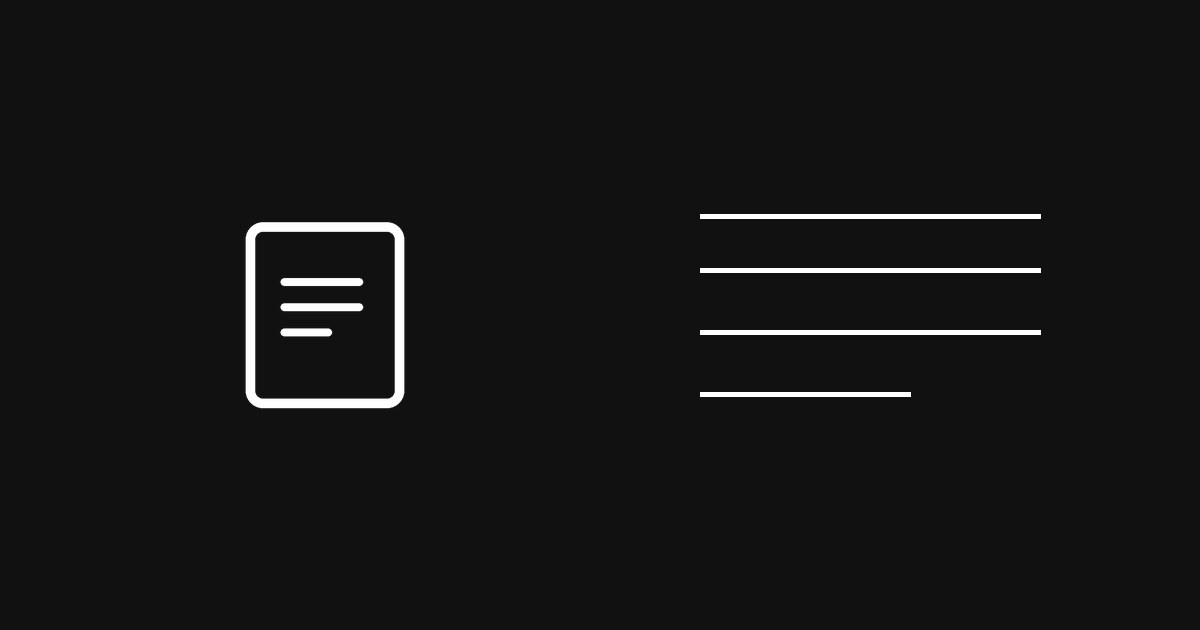
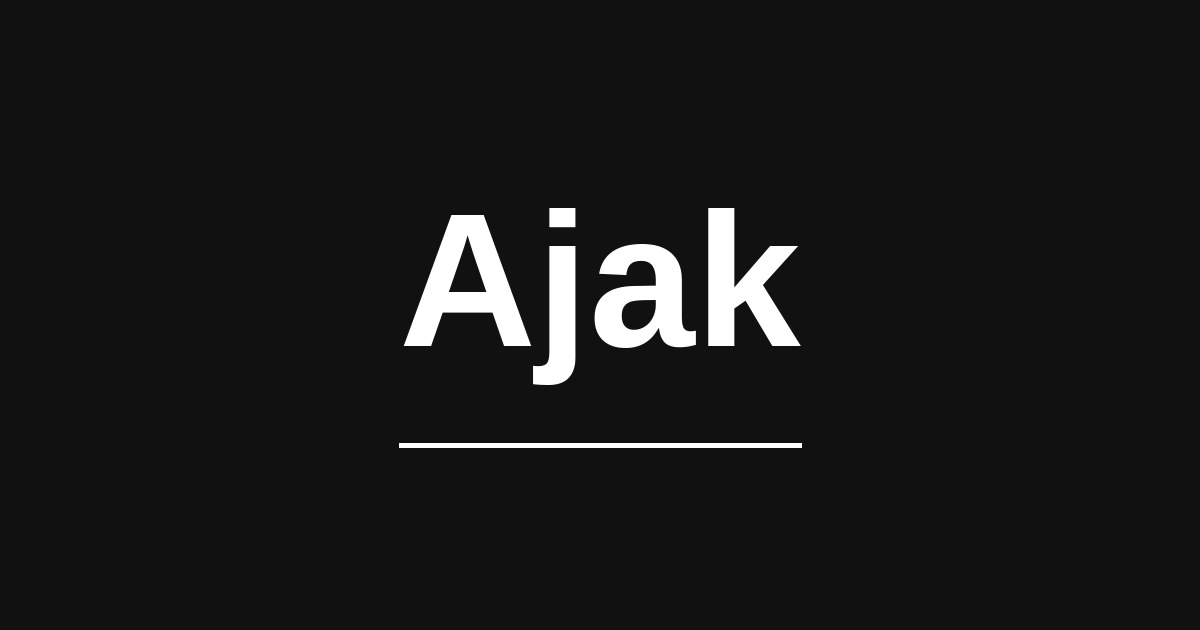
앱 이름·브랜드를 Ajak으로 변경: 워드마크 헤더, A 모노그램 아이콘, 매니페스트/타이틀/공유 문구, 워커 캐시 diary-v2

Changed region(s): [[0.185, 0.3317, 0.8633, 0.6635], [0.3392, 0.6937, 0.6783, 0.7238], [0.5858, 0.6032, 0.7708, 0.6333]]

diff --git a/index.html b/index.html
@@ -2,7 +2,7 @@
 <html lang="ko">
 <head>
 <meta charset="utf-8">
-<title>다이어리</title>
+<title>Ajak</title>
 <meta name="viewport" content="width=device-width, initial-scale=1, viewport-fit=cover">
 <meta name="description" content="일상과 생각을 가볍게 나누는 공간. 짧은 글과 사진으로 오늘을 기록하고, 서로의 하루에 답글을 남겨 보세요.">
 <meta name="theme-color" content="#FFFFFF">
@@ -16,34 +16,29 @@
 
 <meta name="apple-mobile-web-app-capable" content="yes">
 <meta name="mobile-web-app-capable" content="yes">
-<meta name="apple-mobile-web-app-title" content="다이어리">
+<meta name="apple-mobile-web-app-title" content="Ajak">
 <meta name="apple-mobile-web-app-status-bar-style" content="default">
 
 <meta property="og:type" content="website">
-<meta property="og:site_name" content="다이어리">
-<meta property="og:title" content="다이어리">
+<meta property="og:site_name" content="Ajak">
+<meta property="og:title" content="Ajak">
 <meta property="og:description" content="일상과 생각을 가볍게 나누는 공간. 짧은 글과 사진으로 오늘을 기록하고, 서로의 하루에 답글을 남겨 보세요.">
 <meta property="og:image" content="https://ajak-75.github.io/diary/icons/og-cover.jpg">
 <meta property="og:url" content="https://ajak-75.github.io/diary/">
 <meta name="twitter:card" content="summary_large_image">
-<meta name="twitter:title" content="다이어리">
+<meta name="twitter:title" content="Ajak">
 <meta name="twitter:description" content="일상과 생각을 가볍게 나누는 공간.">
 <meta name="twitter:image" content="https://ajak-75.github.io/diary/icons/og-cover.jpg">
 
-<link rel="stylesheet" href="./styles.css?v=3">
+<link rel="stylesheet" href="./styles.css?v=4">
 </head>
 <body>
 <div class="app" id="app">
 
   <header class="topbar" id="topbar">
-    <a class="brand" href="./" aria-label="다이어리 홈">
-      <svg class="brand-mark" viewBox="0 0 32 32" width="30" height="30" aria-hidden="true" fill="none" stroke="currentColor" stroke-width="1.9" stroke-linecap="round" stroke-linejoin="round">
-        <path d="M7 4.5h13.5L26 10v17.5H7z"/>
-        <path d="M20 4.5V10h5.5"/>
-        <path d="M11 15h11M11 19.5h11M11 24h6.5"/>
-      </svg>
+    <a class="brand" href="./" aria-label="Ajak 홈">
       <span class="brand-copy">
-        <span class="brand-title">다이어리</span>
+        <span class="brand-title">Ajak</span>
         <span class="brand-sub">일상과 생각을 가볍게 나누는 공간</span>
       </span>
     </a>
@@ -170,6 +165,6 @@
 
 <div class="toast" id="toast" role="status" aria-live="polite"></div>
 
-<script src="./app.js?v=4"></script>
+<script src="./app.js?v=5"></script>
 </body>
 </html>

diff --git a/app.js b/app.js
@@ -1,5 +1,5 @@
-/* 다이어리 — app.js
-   일상과 생각을 가볍게 나누는 스레드형 한국어 다이어리.
+/* Ajak — app.js
+   일상과 생각을 가볍게 나누는 스레드형 한국어 다이어리 앱.
    글은 localStorage(diary.v1)에, 사진·영상은 IndexedDB(diary.media)에 저장한다. */
 
 (() => {
@@ -777,7 +777,7 @@ function toast(msg){
 function postLink(p){ return PAGE_URL + '#d=' + p.id; }
 
 async function sharePost(p){
-  const data = { title: '다이어리', text: p.body.slice(0, 120), url: postLink(p) };
+  const data = { title: 'Ajak', text: p.body.slice(0, 120), url: postLink(p) };
   if (navigator.share) {
     try { await navigator.share(data); toast(t('sharedTo')); return; }
     catch(e) { if (e && e.name === 'AbortError') return; }

diff --git a/styles.css b/styles.css
@@ -67,7 +67,7 @@ svg { display: block; }
 .brand { display: flex; align-items: center; gap: 9px; text-decoration: none; color: inherit; min-width: 0; }
 .brand-mark { width: 30px; height: 30px; flex: none; color: var(--ink); }
 .brand-copy { display: flex; flex-direction: column; line-height: 1.2; min-width: 0; }
-.brand-title { font-size: 17.5px; font-weight: 800; letter-spacing: -0.03em; }
+.brand-title { font-size: 19.5px; font-weight: 800; letter-spacing: -0.04em; }
 .brand-sub { font-size: 11.5px; color: var(--ink-3); white-space: nowrap; overflow: hidden; text-overflow: ellipsis; }
 
 /* ---------- post ---------- */

diff --git a/sw.js b/sw.js
@@ -1,5 +1,5 @@
-/* 다이어리 — service worker (offline-first shell) */
-const CACHE = 'diary-v1';
+/* Ajak — service worker (offline-first shell) */
+const CACHE = 'diary-v2';
 const SHELL = [
   './',
   './index.html',

diff --git a/README.md b/README.md
@@ -1,8 +1,10 @@
-# 다이어리
+# Ajak
 
-일상과 생각을 가볍게 나누는 한국판 스레드형 PWA. 짧은 글과 사진·영상으로 오늘을 기록하고, 서로의 하루에 답글을 남깁니다.
+일상과 생각을 가볍게 나누는 한국판 스레드형 PWA **Ajak**. 
+ 짧은 글과 사진·영상으로 오늘을 기록하고, 서로의 하루에 답글을 남깁니다.
 
 - **라이브**: https://ajak-75.github.io/diary/
+- **브랜드**: **Ajak** — 로고·앱 이름 모두 영문 워드마크
 - **성격**: 순백색 라이트 모드 · 미니멀 타이포그래피 · 남녀노소 누구나 쓰는 담백한 스레드형 피드
 - **기술**: 의존성 없는 바닐라 HTML/CSS/JS. 글은 localStorage, 사진·영상은 IndexedDB에 기기에 저장됩니다. 서버·계정 없음.
 
@@ -21,7 +23,7 @@
 - **피드 상호작용**: 좋아요, 댓글, 리포스트, 공유(링크 복사·기기 공유 시트), 글마다 번역 보기 ↔ 원문 보기 토글.
 - **내 프로필**: 프로필 사진 업로드(정사각 256px JPEG), 닉네임 20자, 한 줄 소개 80자. 저장하면 이미 쓴 글·댓글의 닉네임까지 함께 바뀝니다. 기본 이미지는 모노톤 인물 실루엣 SVG.
 - **안전장치**: 📜 커뮤니티 약속 5가지(내 프로필 안)와, 글·수정·댓글 등록 시 욕설·혐오·도박·성인·광고 문구, 외부 링크, 전화번호·계좌 같은 개인정보를 걸러 내는 자동 경고 필터.
-- **PWA**: `manifest.webmanifest`(이름·약칭 `다이어리`), `sw.js`(캐시 키 `diary-v1`)로 오프라인에서도 열리고, 홈 화면에 설치할 수 있습니다.
+- **PWA**: `manifest.webmanifest`(이름·약칭 `Ajak`), `sw.js`(캐시 키 `diary-v2`)로 오프라인에서도 열리고, 홈 화면에 설치할 수 있습니다.
 
 ## 파일
 
@@ -29,7 +31,7 @@
 index.html            화면 골격(헤더 · 4탭 · 시트)
 styles.css            흑백 미니멀 스타일
 app.js                피드 · 글쓰기 · 미디어 · 번역 · 필터
-sw.js                 서비스 워커(diary-v1)
+sw.js                 서비스 워커(diary-v2)
 manifest.webmanifest  PWA 매니페스트
 icons/                앱 아이콘 · 기본 프로필 이미지 · 공유 커버
 ```
